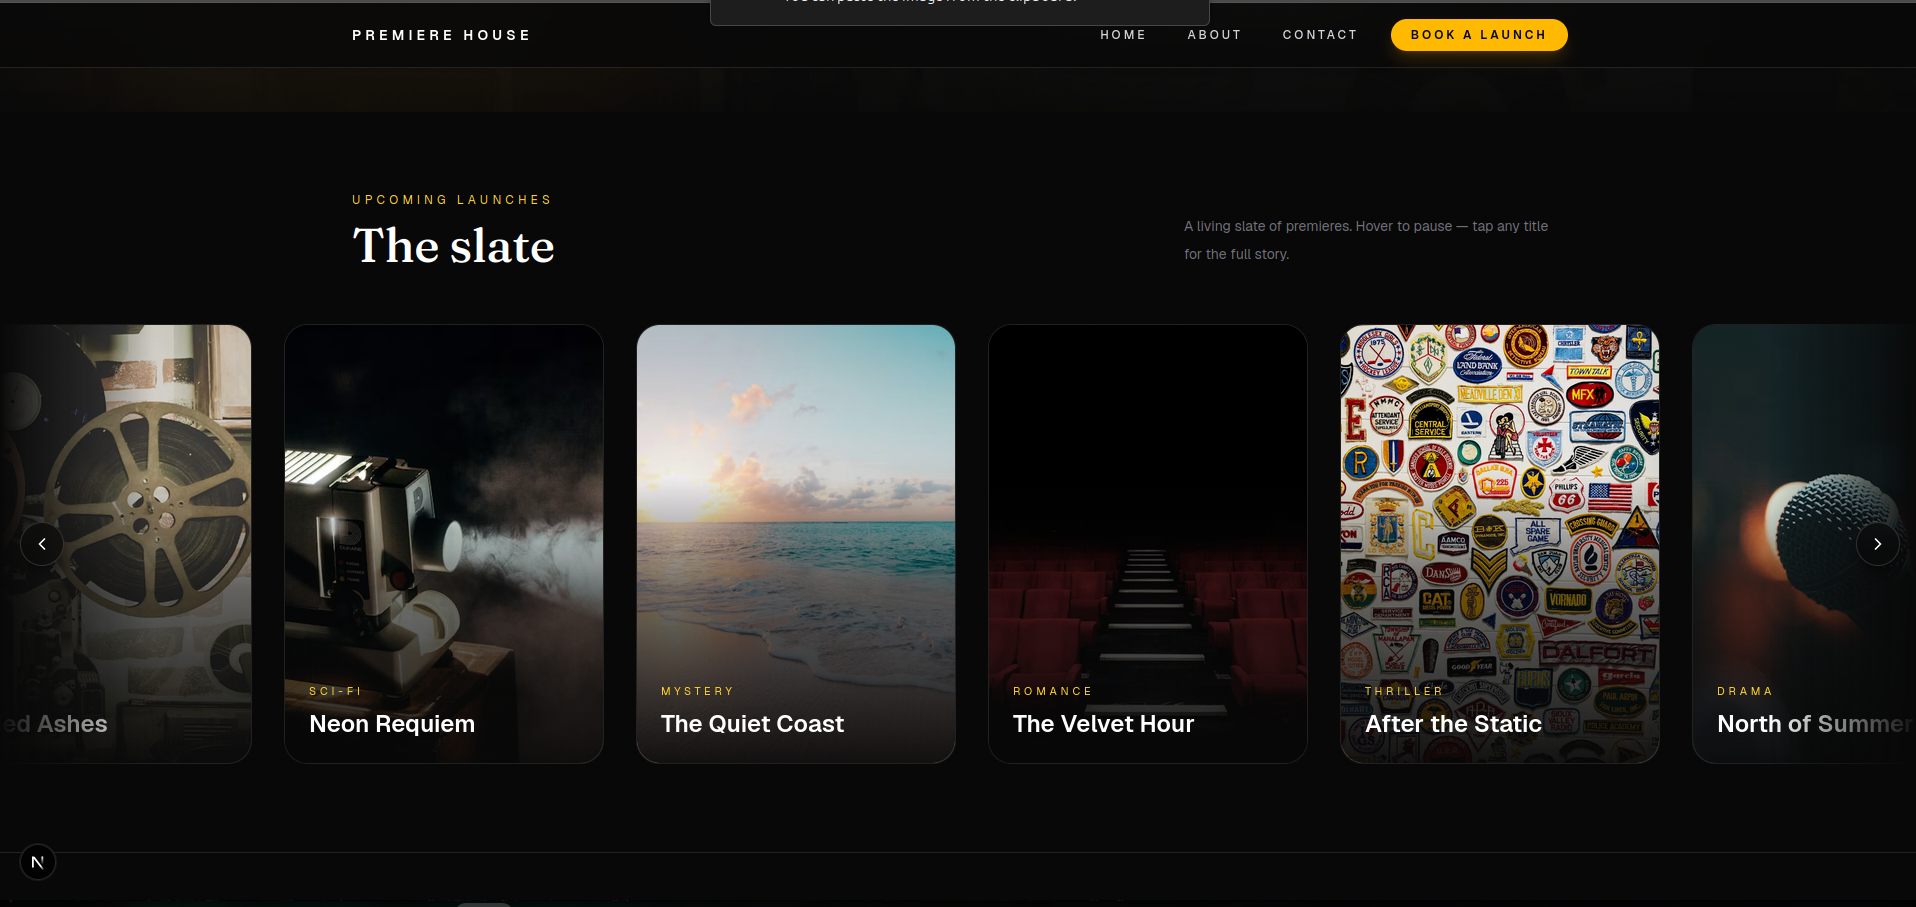
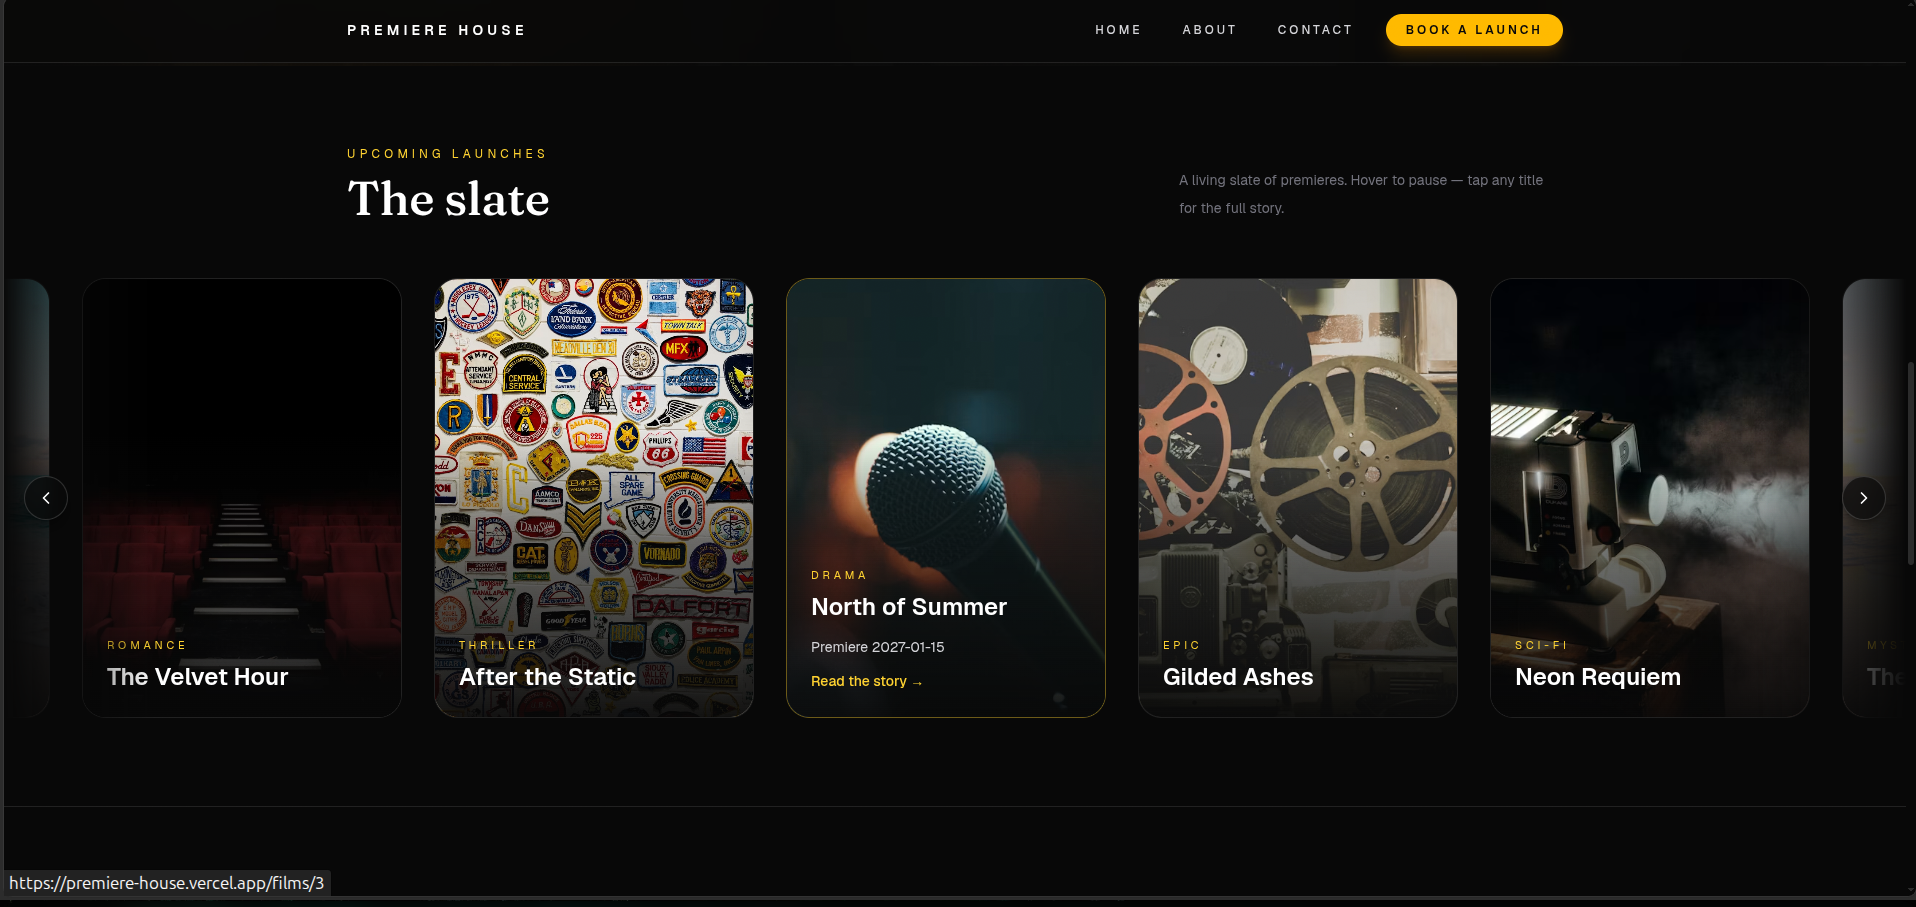
update readme

diff --git a/README.md b/README.md
@@ -7,14 +7,14 @@ A premium, cinematic website for a film launch company built with a monorepo of 
 ### Hero
 ![Hero section](frontend/public/screenshots/hero.png)
 
-### About
-![About section](frontend/public/screenshots/about.png)
-
 ### Luanch List
 ![Slate section](frontend/public/screenshots/slate.png)
 
 ### Film details
 ![Film details section](frontend/public/screenshots/details.png)
+
+### About
+![About section](frontend/public/screenshots/about.png)
 
 ### Newsletter
 ![Newsletter section](frontend/public/screenshots/newsletter.png)